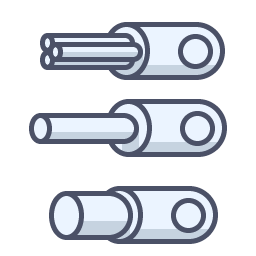
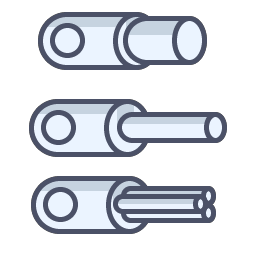
Dynamic weapon collider + tilemap bug fix
- collider reset on barrel sprite assigned

diff --git a/Assets/_Scripts/Weapon/WeaponController.cs b/Assets/_Scripts/Weapon/WeaponController.cs
@@ -1,4 +1,6 @@
 using System;
+using System.Collections.Generic;
+using Unity.VisualScripting;
 using UnityEngine;
 
 public class WeaponController : MonoBehaviour
@@ -8,7 +10,7 @@ public class WeaponController : MonoBehaviour
     {
         get { return !_isCollapsed && _parentShip.IsInTurn; }
     }
-    [HideInInspector] public Health Health;
+    public Health Health;
     [HideInInspector] public WeaponShooting Shooter;
 
     [Header("Effects")]
@@ -21,7 +23,6 @@ public class WeaponController : MonoBehaviour
     private void Awake()
     {
         _parentShip = GetComponentInParent<PlayerController>();
-        Health = GetComponent<Health>();
         Shooter = GetComponent<WeaponShooting>();
 
         Health.OnDamageTaken += () =>
@@ -39,13 +40,33 @@ public class WeaponController : MonoBehaviour
             smokingPS.Stop();
         };
     }
+    private void AssignBarrelVisual()
+    {
+        var barrelRen = transform.Find("Barrel").GetComponent<SpriteRenderer>();
+
+        //Sprite
+        barrelRen.sprite = WeaponType.barrel;
+        barrelRen.transform.eulerAngles = new(0, 0, 135);
+    }
+    private void ResetPolygonCollider()
+    {
+        var colldr = Health.GetComponent<PolygonCollider2D>();
+        var spriteRen = Health.GetComponent<SpriteRenderer>();
+        List<Vector2> physicsShape = new();
+        spriteRen.sprite.GetPhysicsShape(0, physicsShape);
+        colldr.SetPath(0, physicsShape);
+    }
 
     public void Construct(LayerMask layer, WeaponType weaponType)
     {
         gameObject.layer = layer;
         this.WeaponType = weaponType;
+        Health.gameObject.layer = layer;
         Health.Construct(weaponType.health);
         Shooter.Construct(weaponType);
+
+        AssignBarrelVisual();
+        ResetPolygonCollider();
     }
     public void OnPointerDown()
     {

diff --git a/Assets/_Scripts/Health.cs b/Assets/_Scripts/Health.cs
@@ -38,7 +38,7 @@ public class Health : MonoBehaviour
 
     private void OnTriggerEnter2D(Collider2D collision)
     {
-        if (collision.CompareTag(tag)) return;
+        if (!collision.CompareTag("Bullet")) return;
         var bullet = collision.GetComponentInParent<Bullet>();
         DecreaseHealth(bullet.Damage);
         PopUpManager.Instance.SpawnText(bullet.Damage.ToString(), collision.transform.position, CustomColors.Red);
